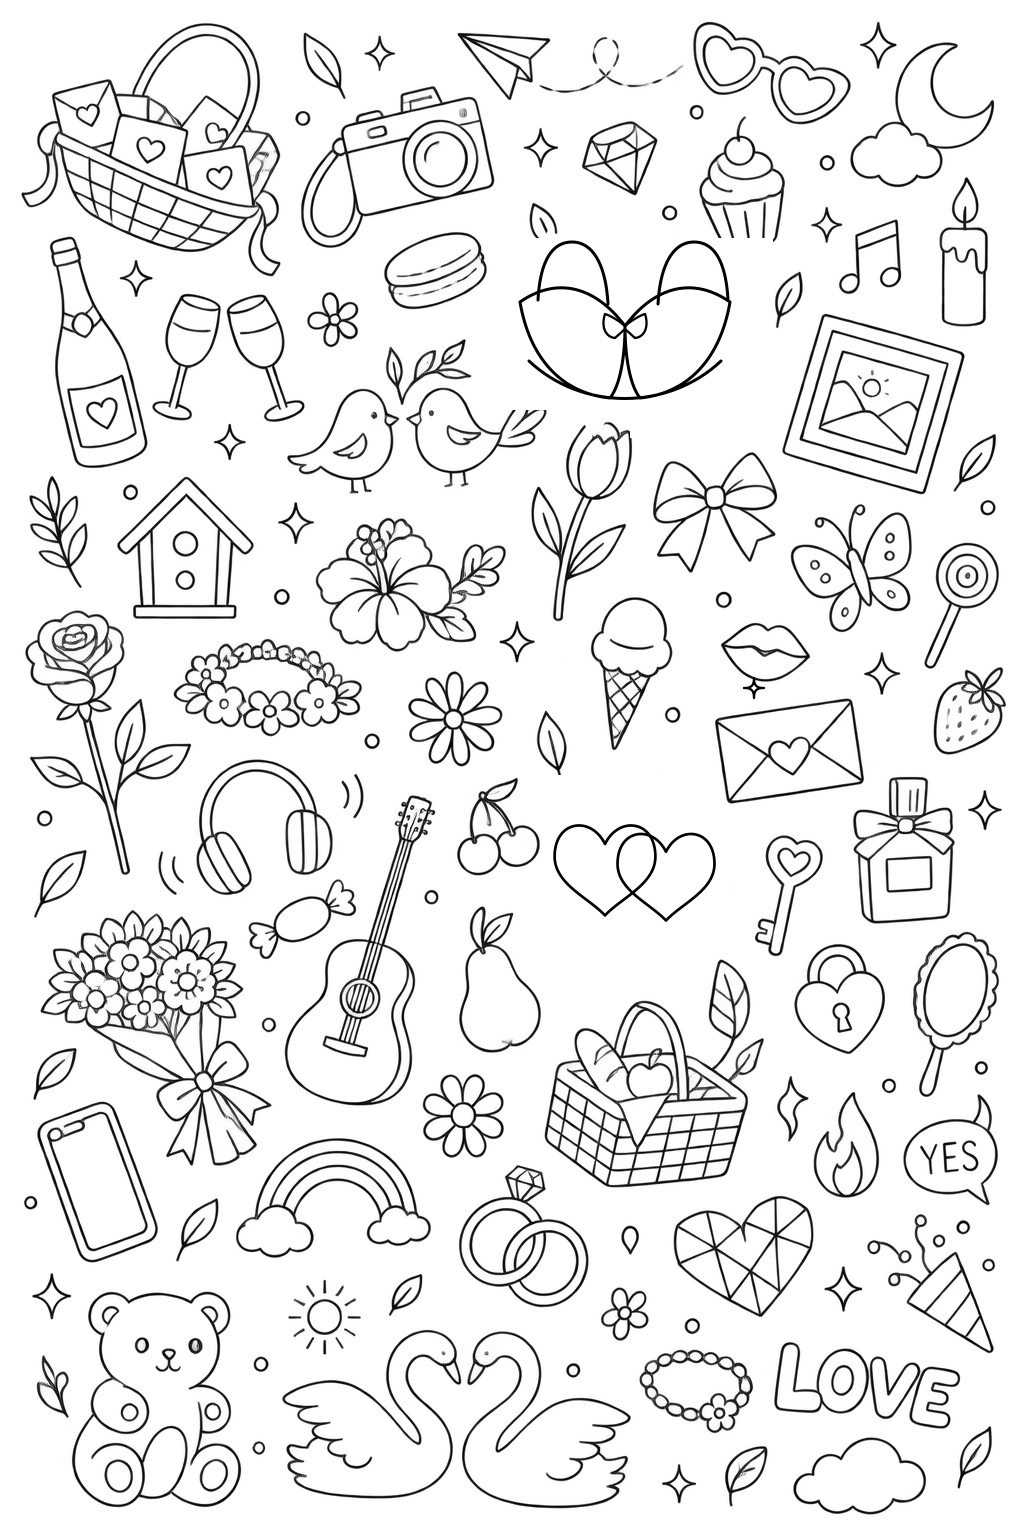
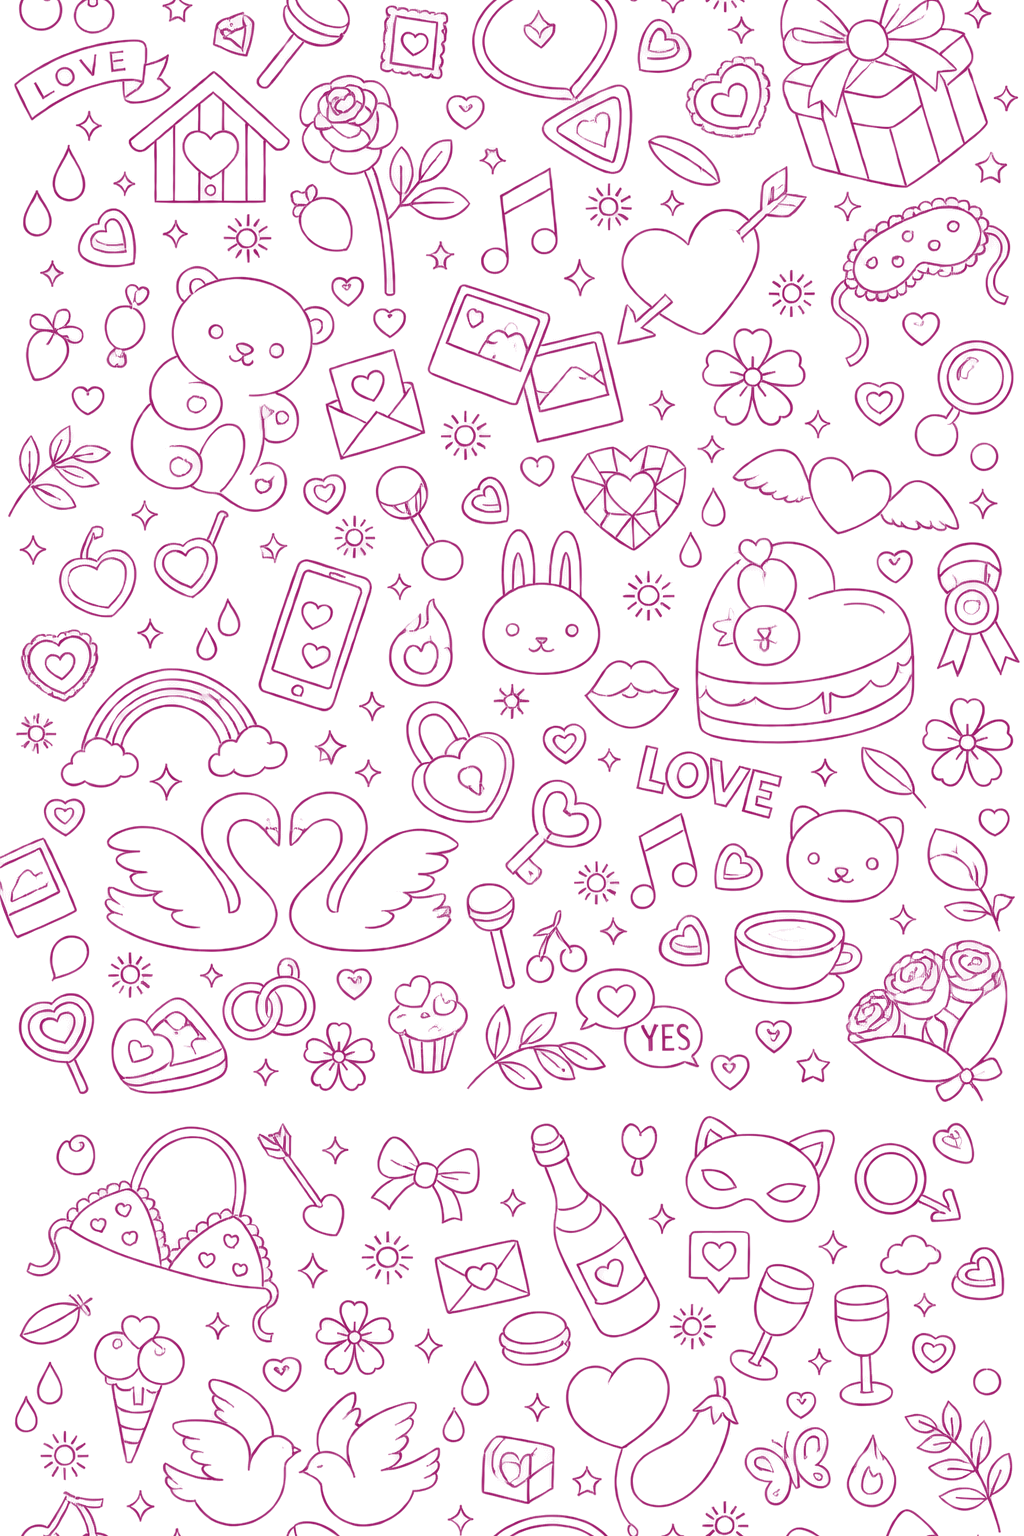
Refine chat wallpaper and bubble shadows

Changed region(s): [[0.0, 0.0, 1.0, 1.0]]

diff --git a/lib/core/widgets/universal_bubble.dart b/lib/core/widgets/universal_bubble.dart
@@ -1152,27 +1152,25 @@ class _UniversalBubbleState extends State<UniversalBubble>
                                                     width: 0.3,
                                                   )
                                                   : null,
-                                          // A restrained 1dp-style lift for
-                                          // chat bubbles. Kept faint so grouped
-                                          // message runs still feel connected.
+                                          // A defined contact shadow plus a
+                                          // softer falloff keeps chat bubbles
+                                          // legible over the denser wallpaper
+                                          // without separating grouped runs
+                                          // into individual floating cards.
                                           boxShadow:
                                               widget.showShadow
                                                   ? const [
                                                     BoxShadow(
                                                       offset: Offset(0, 1),
-                                                      blurRadius: 1,
-                                                      spreadRadius: -1,
-                                                      color: Color(0x0F000000),
-                                                    ),
-                                                    BoxShadow(
-                                                      offset: Offset(0, 1),
-                                                      blurRadius: 1,
-                                                      color: Color(0x0A000000),
-                                                    ),
-                                                    BoxShadow(
-                                                      offset: Offset(0, 1),
                                                       blurRadius: 2,
-                                                      color: Color(0x08000000),
+                                                      spreadRadius: -0.5,
+                                                      color: Color(0x26000000),
+                                                    ),
+                                                    BoxShadow(
+                                                      offset: Offset(0, 3),
+                                                      blurRadius: 6,
+                                                      spreadRadius: -2,
+                                                      color: Color(0x1A000000),
                                                     ),
                                                   ]
                                                   : null,

diff --git a/test/app/chat_color_scheme_test.dart b/test/app/chat_color_scheme_test.dart
@@ -28,7 +28,7 @@ void main() {
     expect(ChatColorScheme.light.background, const Color(0xFFF7F4EF));
     expect(ChatColorScheme.light.backgroundAccent, const Color(0xFFA9D8BE));
     expect(ChatColorScheme.light.pattern, const Color(0xFFEAE0D2));
-    expect(ChatColorScheme.light.patternOpacity, 0.85);
+    expect(ChatColorScheme.light.patternOpacity, 1.0);
     expect(ChatColorScheme.light.senderBubble, const Color(0xFFDCFFC2));
     expect(ChatColorScheme.light.receiverBubble, const Color(0xFFFFFEFC));
     expect(ChatColorScheme.light.voiceAccent, const Color(0xFF2296F3));

diff --git a/lib/app/theme/chat_color_scheme.dart b/lib/app/theme/chat_color_scheme.dart
@@ -34,7 +34,7 @@ class ChatColorScheme extends ThemeExtension<ChatColorScheme> {
     background: Color(0xFFF7F4EF),
     backgroundAccent: Color(0xFFA9D8BE),
     pattern: Color(0xFFEAE0D2),
-    patternOpacity: 0.85,
+    patternOpacity: 1.0,
     senderBubble: Color(0xFFDCFFC2),
     onSenderBubble: Color(0xFF14200F),
     receiverBubble: Color(0xFFFFFEFC),
